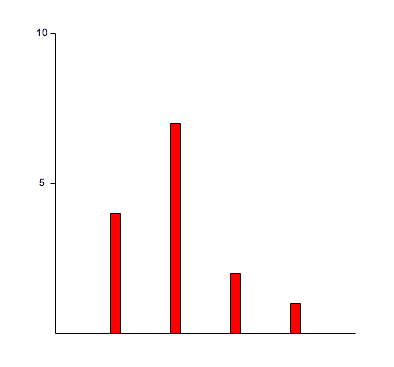
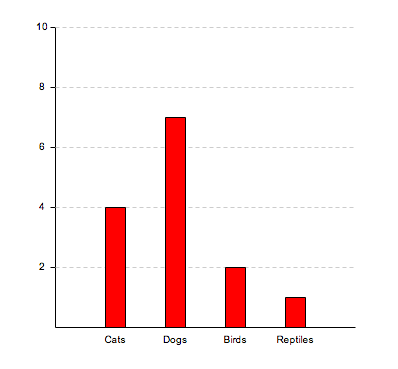
Made sample a bit better

Changed region(s): [[0.0914, 0.0599, 0.8832, 0.9591]]

diff --git a/samples/simple_chart.html b/samples/simple_chart.html
@@ -12,16 +12,20 @@
             var paper = Raphael("chart_element", 500, 500);
             var chart = paper.chart([100,100], [400,400], [0,5], [0,10]);
             
-            var yaxis = chart.addVerticalAxis([0,10])
-            yaxis.addTick(5);
-            yaxis.addLabel(5, "5");
-            yaxis.addTick(10)
-            yaxis.addLabel(10, "10");
+            var yaxis = chart.addVerticalAxis([0,10]);
+            for (var i=2; i<=10; i=i+2) {
+                yaxis.addTick(i);
+                yaxis.addLabel(i, i);
+                chart.addHorizontalLine(i).attr({stroke:"#ccc", "stroke-dasharray":"- "})
+            }
             
             var xaxis = chart.addHorizontalAxis([0,5]);
-            var data = [4, 7, 2, 1];
-            for (var i=0; i<data.length; i++) {
-                chart.addColumn(i+1, data[i], {animationSpeed:400}).attr({"fill":"red"});
+            var data = {"Cats":4, "Dogs":7, "Birds":2, "Reptiles":1};
+            var i=0;
+            for (var x in data) {
+                i++;
+                chart.addColumn(i, data[x], {width:20}).attr({"fill":"red"});
+                xaxis.addLabel(i, x);
             }
             
         })();

diff --git a/README.md b/README.md
@@ -18,23 +18,25 @@ var chart = paper.chart([100,100], [width-100,height-100], xRange, yRange);
 
 // draw a y-axis with some labels and ticks
 var yaxis = chart.addVerticalAxis([0,10])
-yaxis.addTick(5);
-yaxis.addLabel(5, "5");
-yaxis.addTick(10)
-yaxis.addLabel(10, "10");
+for (var i=2; i<=10; i=i+2) {
+    yaxis.addTick(i);
+    yaxis.addLabel(i, i);
+    chart.addHorizontalLine(i).attr({stroke:"#ccc", "stroke-dasharray":"- "})
+}
 
 // draw an x-axis
 var xaxis = chart.addHorizontalAxis([0,5]);
 
 // draw a set of columns from a dataset
-var data = [4, 7, 2, 1];
-for (var i=0; i < data.length; i++) {
-    chart.addColumn(i+1, data[i]).attr({"fill":"red");
+var data = {"Cats":4, "Dogs":7, "Birds":2, "Reptiles":1};
+var i=0;
+for (var x in data) {
+    i++;
+    chart.addColumn(i, data[x], {animationSpeed:400, width:20}).attr({"fill":"red"});
+    xaxis.addLabel(i, x);
 }
 ```
 
 the result of the above code:
 
 ![Simple column chart](https://raw.github.com/gitpullgravity/raphaelchartplugins/master/samples/simple_chart_screenshot.png)
-
--Michael
